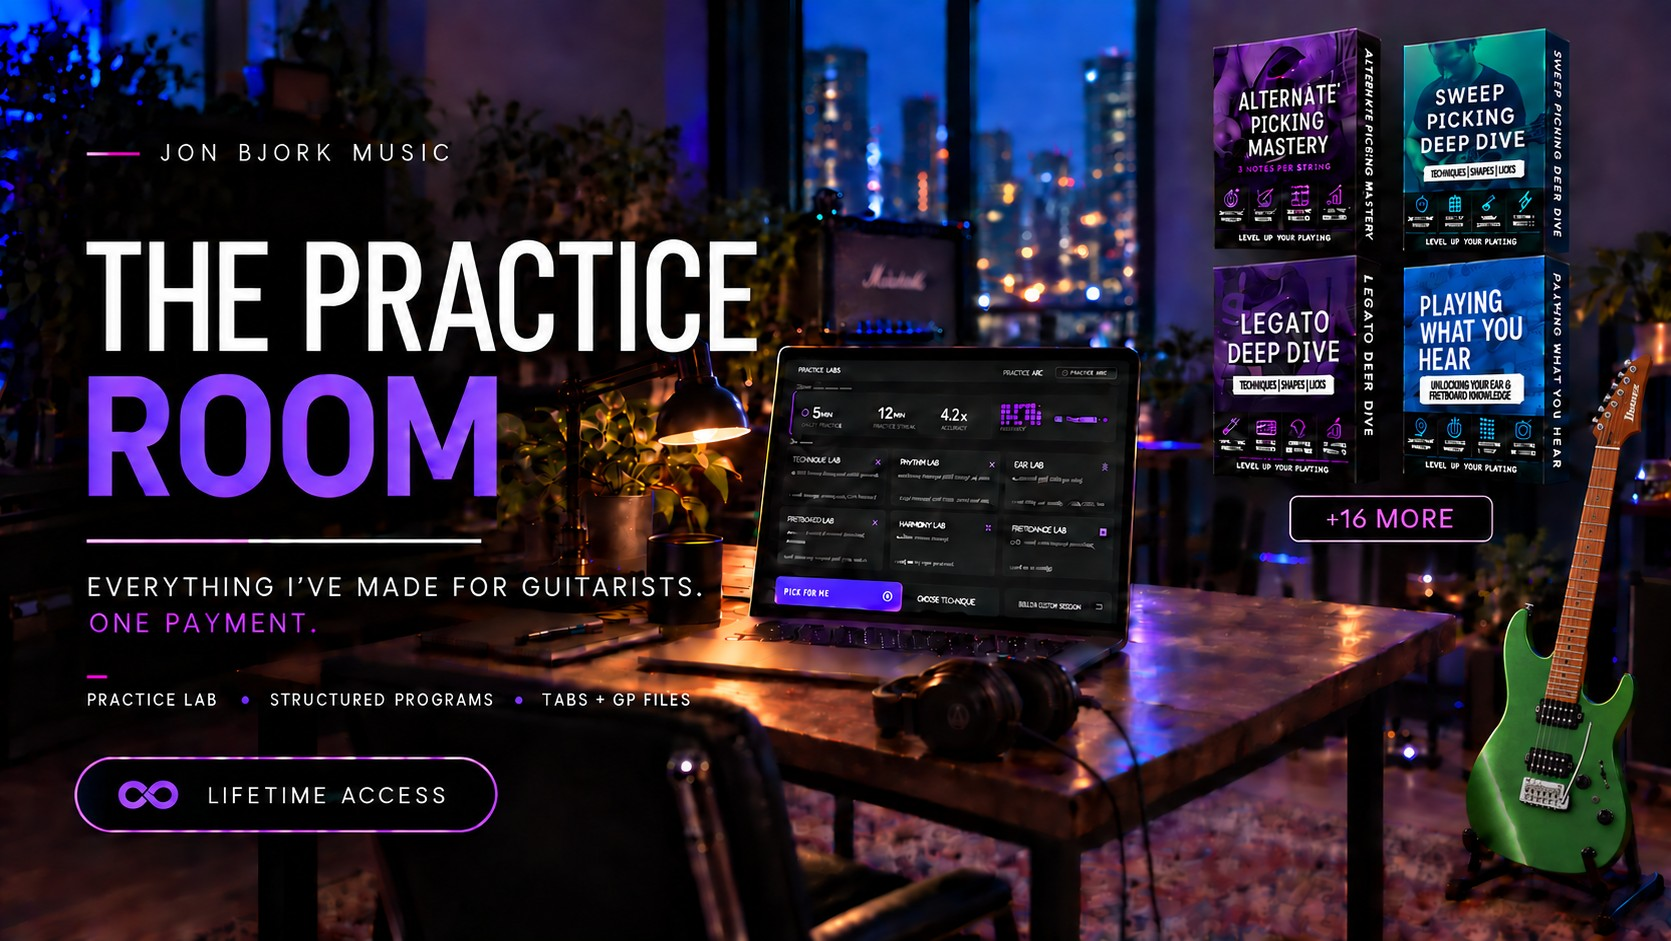
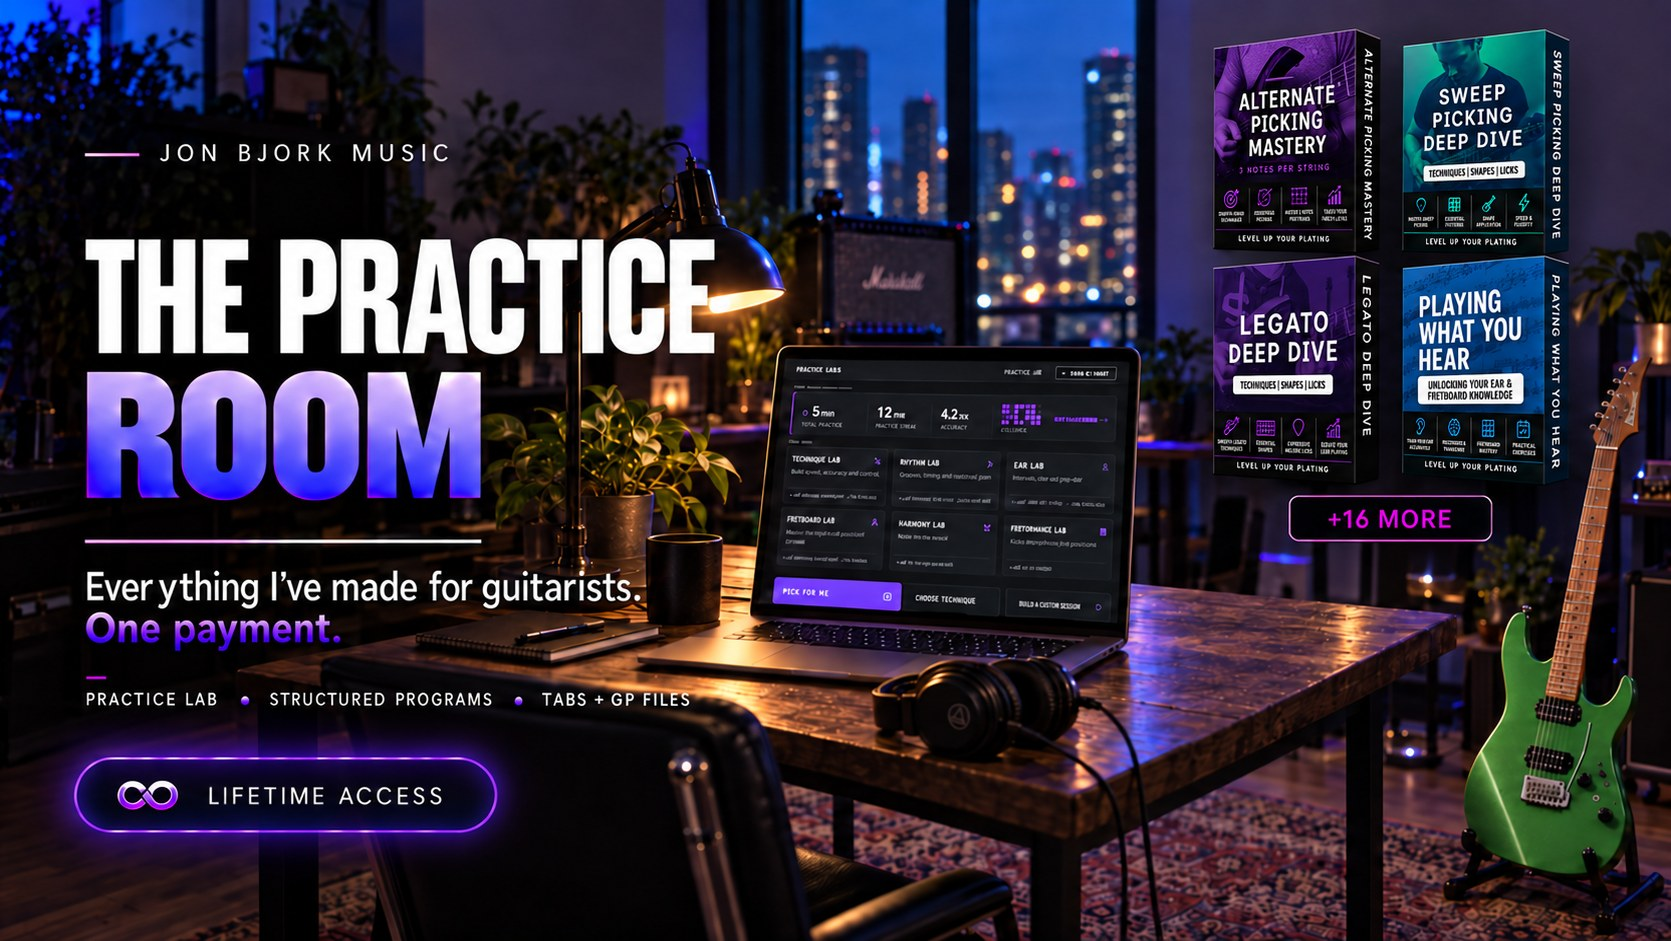
practiceroom: swap in final cover image
Claude-Session: https://claude.ai/code/session_01AaLvcGu6KmYQ2Mg5b1MJtf

diff --git a/practiceroom/index.html b/practiceroom/index.html
@@ -10,7 +10,7 @@
 <meta property="og:description" content="Everything I've made for guitarists. One payment." />
 <meta property="og:url" content="https://www.jonbjorkmusic.com/practiceroom" />
 <meta property="og:image" content="https://www.jonbjorkmusic.com/pro/assets/tpr-cover.jpg" />
-<meta property="og:image:width" content="1671" />
+<meta property="og:image:width" content="1672" />
 <meta property="og:image:height" content="941" />
 <meta name="twitter:card" content="summary_large_image" />
 <meta name="twitter:image" content="https://www.jonbjorkmusic.com/pro/assets/tpr-cover.jpg" />
@@ -547,7 +547,7 @@ src="https://www.facebook.com/tr?id=407195623608189&ev=PageView&noscript=1"
     </a>
     <p class="hero-alt"><a class="link-quiet" href="#walkthrough">or see what's inside first &darr;</a></p>
     <div class="hero-cover">
-      <img src="/pro/assets/tpr-cover.jpg" alt="The Practice Room: everything I've made for guitarists, one payment. Practice Lab on a laptop, course covers, and lifetime access." width="1671" height="941" fetchpriority="high" />
+      <img src="/pro/assets/tpr-cover.jpg" alt="The Practice Room: everything I've made for guitarists, one payment. Practice Lab on a laptop, course covers, and lifetime access." width="1672" height="941" fetchpriority="high" />
     </div>
   </header>
 
